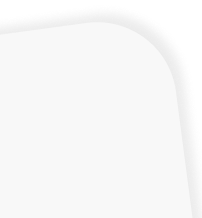
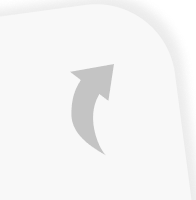
各ページのタイトル編集およびスキップ画像の位置合わせ

Changed region(s): [[0.3367, 0.3, 0.5816, 0.78]]

diff --git a/QuestionWeb/question/templates/question_stop.html b/QuestionWeb/question/templates/question_stop.html
@@ -1,5 +1,5 @@
 {% extends "base.html" %}
-{% block meta_title %}本日のクイズは終了です。{% endblock %}
+{% block meta_title %}QutyPie-Quiz|本日のクイズは終了です。{% endblock %}
 
 {% load static %}
 {% block css %}
@@ -22,7 +22,7 @@
         </div>
         <div class="row">
             <div class="col text-center" id="twitter_link">
-                <a href="https://twitter.com/share?ref_src=twsrc%5Etfw" class="twitter-share-button" data-show-count="false" data-url="aaaa" data-size="large" data-lang="ja">Tweet</a>
+                <a href="https://twitter.com/share?ref_src=twsrc%5Etfw" class="twitter-share-button" data-show-count="false" data-url="https://quty-pie-quiz.com/" data-size="large" data-lang="ja" data-text="QutyPie-Quiz">Tweet</a>
                 <script async src="https://platform.twitter.com/widgets.js" charset="utf-8"></script>
             </div>
         </div>

diff --git a/QuestionWeb/question/templates/session_expire.html b/QuestionWeb/question/templates/session_expire.html
@@ -4,8 +4,8 @@
 <link href="{% static 'question_session_expire.css' %}" rel="stylesheet">
 {% endblock %}
 
-{% block meta_title %}セッション切れ{% endblock %}
-{% block page_title %}セッション切れです。{% endblock %}
+{% block meta_title %}QutyPie-Quiz|セッション切れ{% endblock %}
+{% block page_title %}QutyPie-Quiz|セッション切れです。{% endblock %}
 {% block content %}
 
 

diff --git a/QuestionWeb/question/templates/answer.html b/QuestionWeb/question/templates/answer.html
@@ -1,6 +1,6 @@
 {% extends "base.html" %}
-{% block meta_title %}カテゴリ一覧{% endblock %}
-{% block page_title %}カテゴリ一覧{% endblock %}
+{% block meta_title %}QutyPie-Quiz|こたえ{% endblock %}
+{% block page_title %}QutyPie-Quiz|こたえ{% endblock %}
 {% block content %}
 
 {% if answer_choice_no == choice_no %}

diff --git a/QuestionWeb/static/question.css b/QuestionWeb/static/question.css
@@ -115,10 +115,10 @@ footer {
 .note {
     position:absolute;
     top: 100%;
-    left: 0%;
-    width: 60px;
+    left: -0.1%;
+    width: 50px;
     height: auto;
-    margin-top: -63px;
+    margin-top: -50.5px;
     border-bottom-left-radius: 1rem !important;
     color: #FBFBFB;
     z-index: 9999;

diff --git a/QuestionWeb/question/templates/question_main.html b/QuestionWeb/question/templates/question_main.html
@@ -1,5 +1,5 @@
 {% extends "base.html" %}
-{% block meta_title %}Q{{ question_no }}{% endblock %}
+{% block meta_title %}QutyPie-Quiz|Q{{ res_cnt|add:"1" }}{% endblock %}
 
 {% load static %}
 {% block css %}

diff --git a/QuestionWeb/question/templates/question_comment.html b/QuestionWeb/question/templates/question_comment.html
@@ -1,5 +1,5 @@
 {% extends "base.html" %}
-{% block meta_title %}Q{{ question_no }}|解説{% endblock %}
+{% block meta_title %}QutyPie-Quiz|解説{% endblock %}
 
 {% load static %}
 {% block css %}

diff --git a/QuestionWeb/question/templates/sample_answer.html b/QuestionWeb/question/templates/sample_answer.html
@@ -1,5 +1,5 @@
 {% extends "base.html" %}
-{% block meta_title %}正解{% endblock %}
+{% block meta_title %}QutyPie-Quiz|サンプル問題 正解{% endblock %}
 
 {% load static %}
 {% block css %}

diff --git a/QuestionWeb/question/templates/question_preparation.html b/QuestionWeb/question/templates/question_preparation.html
@@ -1,5 +1,5 @@
 {% extends "base.html" %}
-{% block meta_title %}準備中...{% endblock %}
+{% block meta_title %}QutyPie-Quiz|準備中...{% endblock %}
 
 {% load static %}
 {% block css %}

diff --git a/QuestionWeb/question/templates/top.html b/QuestionWeb/question/templates/top.html
@@ -1,5 +1,5 @@
 {% extends "base.html" %}
-{% block meta_title %}トップ{% endblock %}
+{% block meta_title %}QutyPie-Quiz|トップ{% endblock %}
 
 {% load static %}
 

diff --git a/QuestionWeb/question/views.py b/QuestionWeb/question/views.py
@@ -110,6 +110,7 @@ class QuestionView(TemplateView):
 
         ctx['question_list'] = question_list
         ctx['rem_res_cnt'] = QUESTION_MAX_QTY - self.request.session.get('res_cnt', 0)
+        ctx['res_cnt'] = self.request.session.get('res_cnt', 0)
 
         return ctx
 
